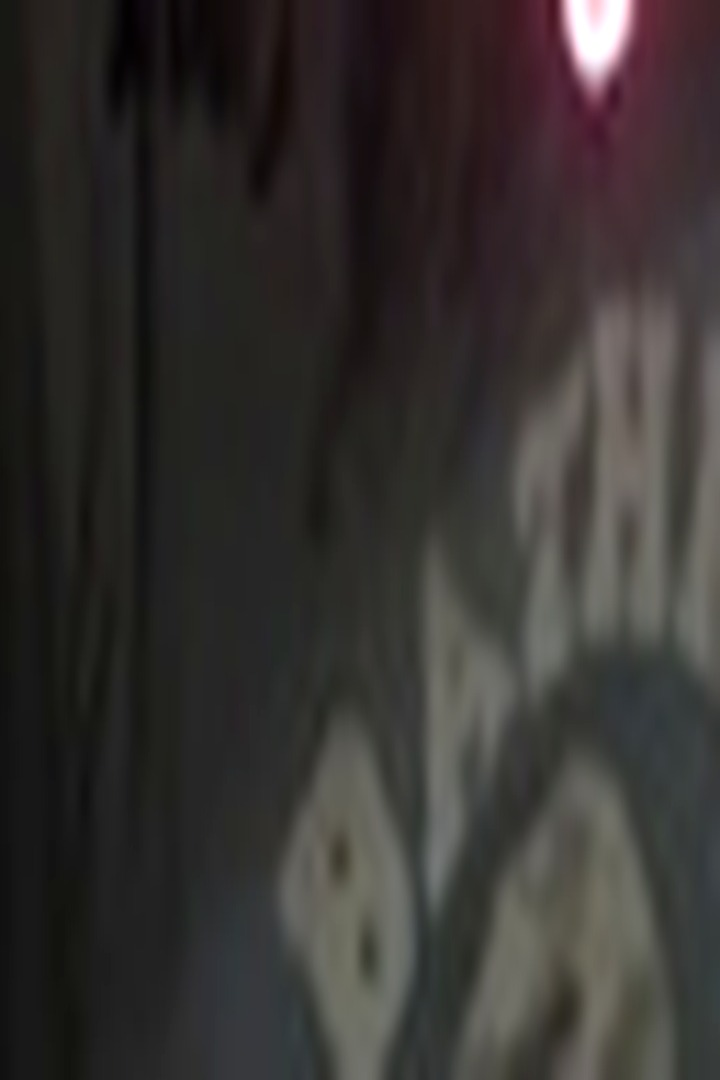
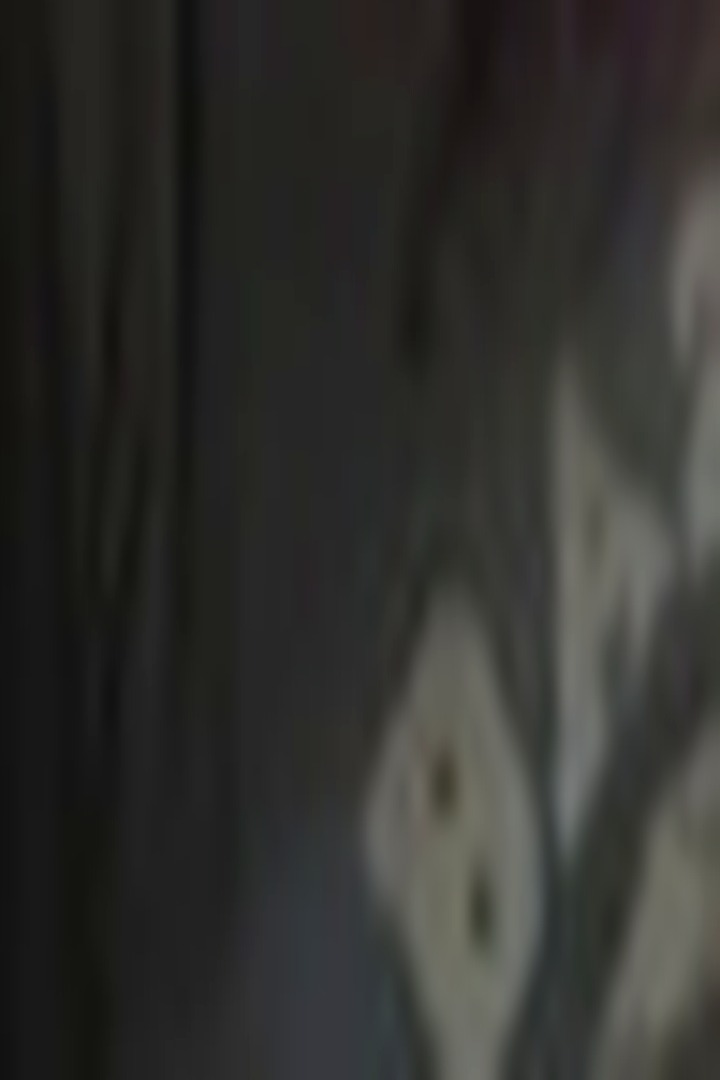
h

diff --git a/index.html b/index.html
@@ -7,13 +7,12 @@
   <link rel="preconnect" href="https://fonts.googleapis.com" />
   <link rel="preconnect" href="https://fonts.gstatic.com" crossorigin />
   <link href="https://fonts.googleapis.com/css2?family=Great+Vibes&family=Montserrat:wght@400;500;600;700&family=Cormorant+Garamond:ital,wght@0,400;0,500;1,400&display=swap" rel="stylesheet" />
-  <link rel="stylesheet" href="styles.css?v=20" />
+  <link rel="stylesheet" href="styles.css?v=22" />
 </head>
 <body>
   <section class="hero">
-    <div class="hero-photos" aria-hidden="true">
-      <img src="images/hero-locs-left.jpg?v=13" alt="" />
-      <img src="images/hero-locs-right.jpg?v=13" alt="" />
+    <div class="hero-photos one" aria-hidden="true">
+      <img src="images/hero-from-canva.jpg?v=16" alt="" />
     </div>
     <div class="hero-veil"></div>
     <div class="hero-content">
@@ -40,7 +39,7 @@
         <div class="portrait-sparkles" aria-hidden="true"></div>
         <div class="portrait-glow"></div>
         <div class="portrait-clip">
-          <img class="portrait" src="images/stylist-portrait.jpg?v=13" alt="Tonika Lord" />
+          <img class="portrait" src="images/stylist-portrait.jpg?v=15" alt="Tonika Lord" />
         </div>
       </div>
     </div>
@@ -48,9 +47,9 @@
 
   <section class="hours-contact">
     <div class="hours-bg" aria-hidden="true">
-      <img src="images/polaroid-1.jpg?v=13" alt="" />
-      <img src="images/polaroid-3.jpg?v=13" alt="" />
-      <img src="images/polaroid-4.jpg?v=13" alt="" />
+      <img src="images/polaroid-1.jpg?v=15" alt="" />
+      <img src="images/polaroid-3.jpg?v=15" alt="" />
+      <img src="images/polaroid-4.jpg?v=15" alt="" />
     </div>
     <div class="hours-veil"></div>
     <div class="hours-grid">
@@ -158,9 +157,9 @@
 
   <section class="before">
     <div class="hours-bg" aria-hidden="true">
-      <img src="images/polaroid-1.jpg?v=13" alt="" />
-      <img src="images/polaroid-3.jpg?v=13" alt="" />
-      <img src="images/polaroid-4.jpg?v=13" alt="" />
+      <img src="images/polaroid-1.jpg?v=15" alt="" />
+      <img src="images/polaroid-3.jpg?v=15" alt="" />
+      <img src="images/polaroid-4.jpg?v=15" alt="" />
     </div>
     <div class="hours-veil"></div>
     <h2 class="neon policies-title">Before your Appt</h2>
@@ -193,23 +192,23 @@
       </ul>
     </div>
     <div class="polaroid-stack" aria-hidden="true">
-      <div class="polaroid tilt-left"><img src="images/polaroid-1.jpg?v=13" alt="" /></div>
-      <div class="polaroid tilt-right"><img src="images/polaroid-2.jpg?v=13" alt="" /></div>
+      <div class="polaroid tilt-left"><img src="images/polaroid-1.jpg?v=15" alt="" /></div>
+      <div class="polaroid tilt-right"><img src="images/polaroid-2.jpg?v=15" alt="" /></div>
     </div>
   </section>
 
   <section class="selfies">
     <div class="selfies-bg" aria-hidden="true">
-      <img src="images/polaroid-3.jpg?v=13" alt="" />
+      <img src="images/polaroid-3.jpg?v=15" alt="" />
     </div>
     <div class="hours-veil"></div>
     <div class="selfies-inner">
       <div class="phones" aria-hidden="true">
         <div class="phone tilt-left">
-          <img src="images/selfie-1.jpg?v=13" alt="" />
+          <img src="images/selfie-1.jpg?v=15" alt="" />
         </div>
         <div class="phone tilt-right">
-          <img src="images/selfie-2.jpg?v=13" alt="" />
+          <img src="images/selfie-2.jpg?v=15" alt="" />
         </div>
       </div>
       <div class="selfies-copy">
@@ -225,8 +224,8 @@
 
   <section class="thanks">
     <div class="polaroid-stack" aria-hidden="true">
-      <div class="polaroid tilt-left"><img src="images/polaroid-3.jpg?v=13" alt="" /></div>
-      <div class="polaroid tilt-right"><img src="images/polaroid-4.jpg?v=13" alt="" /></div>
+      <div class="polaroid tilt-left"><img src="images/polaroid-3.jpg?v=15" alt="" /></div>
+      <div class="polaroid tilt-right"><img src="images/polaroid-4.jpg?v=15" alt="" /></div>
     </div>
     <div class="thanks-copy">
       <h2 class="neon">Thank You</h2>

diff --git a/styles.css b/styles.css
@@ -80,34 +80,33 @@ ul {
   max-width: none;
   height: 100%;
   object-fit: cover;
-  filter: brightness(0.82) contrast(1.14) saturate(1.08);
+  filter: brightness(0.88) contrast(1.1) saturate(1.05);
 }
 
-.hero-photos img:first-child {
-  object-position: 8% 70%;
+.hero-photos.one {
+  display: block;
 }
 
-.hero-photos img:last-child {
-  object-position: 92% 40%;
+.hero-photos.one img {
+  width: 100%;
+  height: 100%;
+  flex: none;
+  object-fit: cover;
+  object-position: 50% 38%;
+  filter: brightness(0.92) contrast(1.12) saturate(1.06);
 }
 
 .hero-veil {
   position: absolute;
   inset: 0;
   z-index: -1;
-  background:
-    radial-gradient(
-      ellipse 58% 72% at 50% 48%,
-      rgba(0, 0, 0, 0.72) 0%,
-      rgba(0, 0, 0, 0.28) 55%,
-      rgba(0, 0, 0, 0.08) 100%
-    ),
-    linear-gradient(
-      to bottom,
-      rgba(0, 0, 0, 0.18),
-      rgba(0, 0, 0, 0.04) 42%,
-      rgba(0, 0, 0, 0.22)
-    );
+  background: radial-gradient(
+    ellipse 58% 70% at 50% 44%,
+    rgba(0, 0, 0, 0.9) 0%,
+    rgba(0, 0, 0, 0.62) 42%,
+    rgba(0, 0, 0, 0.22) 68%,
+    rgba(0, 0, 0, 0.06) 100%
+  );
   pointer-events: none;
 }
 
@@ -115,20 +114,6 @@ ul {
   position: relative;
   padding: 3.4rem 2rem 3rem;
   max-width: 56rem;
-}
-
-.hero-content::before {
-  content: "";
-  position: absolute;
-  inset: -18% -8%;
-  background: radial-gradient(
-    ellipse at center,
-    rgba(0, 0, 0, 0.82) 0%,
-    rgba(0, 0, 0, 0.46) 48%,
-    transparent 72%
-  );
-  z-index: -1;
-  pointer-events: none;
 }
 
 .hero h1,
@@ -240,8 +225,8 @@ a {
   width: 100%;
   height: 100%;
   object-fit: cover;
-  object-position: 46% 26%;
-  transform: scale(1.38);
+  object-position: 48% 22%;
+  transform: scale(1.22);
   filter: none;
   border: 0;
   box-shadow: none;

diff --git a/book.html b/book.html
@@ -7,7 +7,7 @@
   <link rel="preconnect" href="https://fonts.googleapis.com" />
   <link rel="preconnect" href="https://fonts.gstatic.com" crossorigin />
   <link href="https://fonts.googleapis.com/css2?family=Great+Vibes&family=Montserrat:wght@400;500;600;700&family=Cormorant+Garamond:ital,wght@0,400;0,500;1,400&display=swap" rel="stylesheet" />
-  <link rel="stylesheet" href="styles.css?v=20" />
+  <link rel="stylesheet" href="styles.css?v=22" />
 </head>
 <body class="book-page">
   <header class="book-top">

diff --git a/_crop_clean.py b/_crop_clean.py
@@ -36,9 +36,10 @@ w, h = p1.size
 w2, h2 = p2.size
 print("p1", w, h, "p2", w2, h2)
 
-# Hero: BATHING / looking-down band only (y 94–128). Title lives above this.
-save(p1.crop((0, 94, int(w * 0.26), 126)), "hero-locs-left.jpg", (720, 1080))
-save(p1.crop((int(w * 0.76), 94, w, 126)), "hero-locs-right.jpg", (720, 1080))
+# Full hero band; CSS darkens the center so baked title stays hidden.
+save(p1.crop((0, 0, w, 135)), "hero-from-canva.jpg", (1600, 980))
+save(p1.crop((0, 102, int(w * 0.20), 126)), "hero-locs-left.jpg", (720, 1080))
+save(p1.crop((int(w * 0.82), 102, w, 126)), "hero-locs-right.jpg", (720, 1080))
 
 # Portrait: full face inside the Canva ring.
 save(p1.crop((int(w * 0.738), 158, int(w * 0.882), 220)), "stylist-portrait.jpg", (720, 720))
